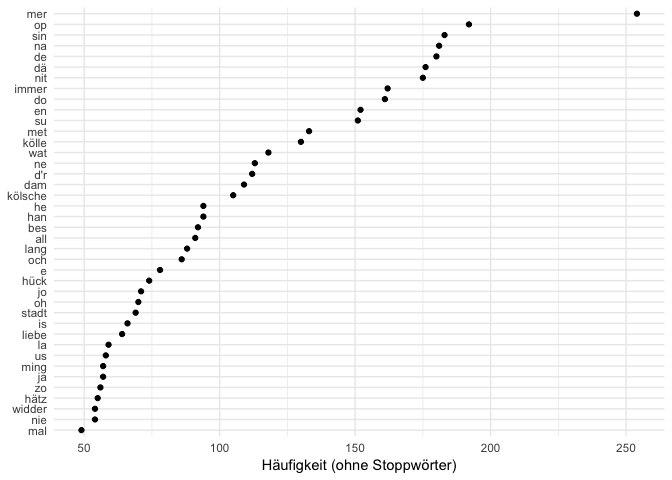
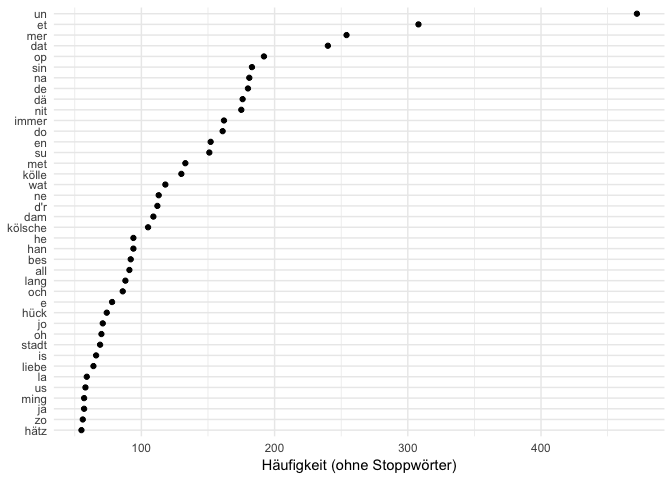
Fix typos and links

diff --git a/fastelovend.md b/fastelovend.md
@@ -154,7 +154,7 @@ kwic(corpus_leeder, c("fiere*", "drink*", "alaaf"), window = 3)
     ##  [Denn wen, 1993, 144]      Kölle Alaaf, |  Alaaf  | - Kölle Alaaf      
     ##  [Denn wen, 1993, 147]      Alaaf- Kölle |  Alaaf  |
 
-Was sagt uns diese Tabelle: Die Kölner singen gerne über ihre Stadt und trinken ebenso gern. Und in vielen Texten wiederholt sich eine Phrase (Refrain!).
+Was sagt uns diese Tabelle: Die Kölner lieben das "Alaaf" und trinken sehr gerne. Und in vielen Texten wiederholt sich eine Phrase (Refrain!).
 
 Im nächsten Schritt plotten wir die 40 häufigsten Begriffe über alle Lieder hinweg.
 
@@ -175,12 +175,12 @@ ggplot(most_frequent_words, aes(x = reorder(feature, frequency), y = frequency))
 
 ![](fastelovend_files/figure-markdown_github/unnamed-chunk-8-1.png)
 
-Wir sehen, dass dies vor allem "Stoppwörter" sind, die recht wenig Aussagekraft haben. Deshalb wiederholen wir das Ganze und entfernen Wörter, die in über 60 Prozent der Lieder vorkommen.
+Wir sehen, dass dies vor allem "Stoppwörter" sind, die recht wenig Aussagekraft haben. Deshalb wiederholen wir das Ganze und entfernen Wörter, die in über 80 Prozent der Lieder vorkommen.
 
 ``` r
 # Entferne Begriffe, die in mehr als 60 Prozent der Lieder vorkommen
 dfm_leeder_trim <- dfm_leeder %>% 
-    dfm_trim(max_docfreq = 0.6)
+    dfm_trim(max_docfreq = 0.8)
 
 # Plotte 40 häufigsten Begriffe
 most_frequent_words_subset <- textstat_frequency(dfm_leeder_trim, n = 40)
@@ -214,7 +214,7 @@ corpus_leeder_subset_wordcloud %>%
 
 ![](fastelovend_files/figure-markdown_github/unnamed-chunk-10-1.png)
 
-Eins fällt auf: manche Lieder haben einen großen Einfluss, beispielsweise "Dausend Leeve" bei Kasalla, "Op de Maat" (Räuber), "Polka, Polka, Polka" (Bläck Fööss) und "Pizza Wunderbar" (Pizza). Denn die Inhalte dieser Lieder sind fundamental anders zu den Titeln der anderen Bands (und beinhalten sich wiederholende Schlagwörter).
+Eins fällt auf: manche Lieder haben einen großen Einfluss, beispielsweise "Dausend Levve" bei Kasalla, "Op de Maat" (Räuber), "Polka, Polka, Polka" (Bläck Fööss) und "Pizza Wunderbar" (Pizza). Denn die Inhalte dieser Lieder unterscheiden sich sehr von den Titeln der anderen Bands (und beinhalten sich wiederholende Schlagwörter).
 
 Wordfish für Karnevalsbands
 ---------------------------
@@ -236,13 +236,13 @@ textmodel_wordfish(dfm_leeder_subset) %>%
 
 ![](fastelovend_files/figure-markdown_github/unnamed-chunk-11-1.png)
 
-Die Dimension macht aber durchaus Sinn: es geht um Platt vs. Hochdeutsch! Während Bands wie Miljö, Kasalla, Querbeat und Cat Ballou fast ausschließlich auf Kölsch singen (zumindest deren Songs in den Top 100), singen u.g. Trude Herr, Karl Berbuer, Jupp Schmitz, Bernd Stelter auf Hochdeutsch. Interessanterweise liegen Brings, Höhner und Bläck Fööss in der Mitte, denn Teile der Songs sind hochdeutsch, andere sind platt. Wer hätte das gedacht: Wordfish für Fastelovend macht Sinn! Und diese Skalierung basierend ausschließlich auf Worthäufigkeiten.
+Die Dimension macht aber durchaus Sinn: es geht um platt vs. hochdeutsch! Während Bands wie Miljö, Kasalla, Querbeat und Cat Ballou fast ausschließlich auf kölsch singen (zumindest deren Songs in den Top 100), singen u.a. Trude Herr, Karl Berbuer, Jupp Schmitz, Bernd Stelter auf hochdeutsch. Interessanterweise liegen Brings, Höhner und Bläck Fööss in der Mitte, denn Teile der Songs sind hochdeutsch, andere sind platt. Wer hätte das gedacht: Wordfish für Fastelovend macht Sinn! Und diese Skalierung basierend ausschließlich auf Worthäufigkeiten. Allerdings besteht diese Analyse nur aus 100, meist kurzen, Liedtexten. Um ein besseres Verständnis zu bekommen, brauchen wir mehr Lieder pro Band. Dann könnten wir auch besser verstehen, warum z.B. die Fööss nicht mehr in der kölsch-Dimension auftauchen. Mit der momentanen Analyse kann auch die unterschiedliche Textlänger (mehr Songs der Höhner, Bläck Fööss und Brings) einen Einfluss auf die Skalierung haben. Deshalb gilt auch hier: more research is required.
 
 Für mehr Informationen zu Wordfish siehe: Jonathan Slapin and Sven-Oliver Proksch. 2008. "[A Scaling Model for Estimating Time-Series Party Positions from Texts.](http://www.svenoliverproksch.com/uploads/1/2/9/8/12985397/slapin_proksch_ajps_2008.pdf)" American Journal of Political Science 52(3):705-772.
 
 Habe ich Interesse an unserem **quanteda**-Package geweckt? Hier gibt es mehr Informationen:
 
--   Website: [quanteda.io](www.quanteda.io)
--   Tutorials: [tutorials.quanteda.io](tutorials.quanteda.io)
+-   Website: [quanteda.io](http://www.quanteda.io)
+-   Tutorials: [tutorials.quanteda.io](http://tutorials.quanteda.io)
 
 Aus Urheberrechtsgründen habe ich den Rohdatensatz nicht öffentlich verfügbar gemacht.
